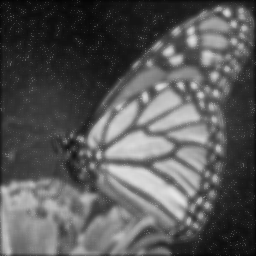
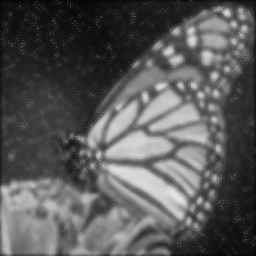
updates

diff --git a/Hw2/homework2_programming/gg.py b/Hw2/homework2_programming/gg.py
@@ -35,30 +35,29 @@ def bilateral_filtering(img: np.uint8, spatial_variance: float, intensity_varian
 
     # Precompute spatial weights (depends only on spatial_variance)
     spatial_weights = np.zeros((kernel_size, kernel_size))
-    # for k in range(-padding_size, padding_size + 1):
-    #     for l in range(-padding_size, padding_size + 1):
-    #         spatial_weights[k + padding_size, l + padding_size] = math.exp(-(k ** 2 + l ** 2) / (2 * spatial_variance))
-    for i in range(kernel_size):
-        for j in range(kernel_size):
-            k, l = i - padding_size, j - padding_size
-            spatial_weights[i, j] = math.exp(-(k ** 2 + l ** 2) / (2 * spatial_variance))
+    for k in range(-padding_size, padding_size + 1):
+        for l in range(-padding_size, padding_size + 1):
+            spatial_weights[k + padding_size, l + padding_size] = math.exp(-(k ** 2 + l ** 2) / (2 * spatial_variance))
 
     for i in range(padding_size, sizeX + padding_size):
         for j in range(padding_size, sizeY + padding_size):
             current_pixel = img_padded[i, j]
+            neighbor_pixel = img_padded[i - padding_size:i + padding_size + 1, j - padding_size:j + padding_size + 1]
 
             # Compute intensity weight (depends on intensity_variance)
-            intensity_difference = np.abs(current_pixel - img_padded[i - padding_size:i + padding_size + 1, j - padding_size:j + padding_size + 1])
-            intensity_weight = (1 / np.sqrt(2 * np.pi * intensity_variance)) * np.exp(-(intensity_difference ** 2) / (2 * intensity_variance))
+            intensity_difference = np.abs(current_pixel - neighbor_pixel)
+            intensity_weight = np.exp(-(intensity_difference ** 2) / (2 * intensity_variance))
 
             # Bilateral filter weight (combined with spatial weight)
             bilateral_weight = spatial_weights * intensity_weight
-            weighted_sum = np.sum(bilateral_weight * img_padded[i - padding_size:i + padding_size + 1, j - padding_size:j + padding_size + 1])
+            weighted_sum = np.sum(bilateral_weight * neighbor_pixel)
 
             sum_of_weights = np.sum(bilateral_weight)
 
             # Compute the filtered pixel value
             img_filtered[i - padding_size, j - padding_size] = weighted_sum / sum_of_weights
+
+
 
     img_filtered = img_filtered * 255
     img_filtered = np.uint8(img_filtered)
